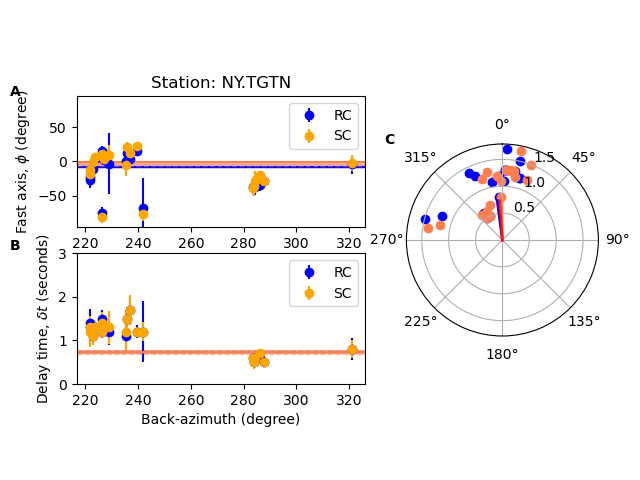
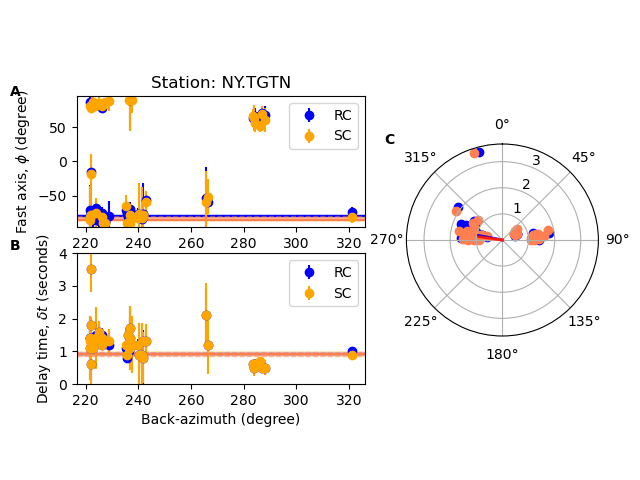
updated tutorials docs for split_average

diff --git a/docs/tutorials.rst b/docs/tutorials.rst
@@ -340,7 +340,7 @@ by typing in a terminal:
 
 .. code-block::
 
-    $ split_average --show-fig -V TGTN.pkl
+    $ split_average --show-fig -V --auto TGTN.pkl
     
     ###############################################################
     #            _ _ _                                            #
@@ -362,35 +362,26 @@ by typing in a terminal:
         Fairs:  True
         Poors:  False
     ---------------------------
-      Processing 141 Events...
-          20160413_135517 Good Non-Null -> Retained
+      Processing 136 Events...
+          20160302_124948 Poor Null -> Skipped
+          20160401_192455 Good Non-Null -> Retained
+          20160403_082352 Poor Non-Null -> Skipped
+          20160406_065848 Poor Null -> Skipped
+          20160407_033253 Good Non-Null -> Retained
+          20160413_135517 Fair Non-Null -> Retained
+          20160414_215027 Poor Null -> Skipped
+          20160428_193324 Poor Non-Null -> Skipped
           20160527_040843 Good Non-Null -> Retained
-          20160607_191515 Fair Non-Null -> Retained
-          20160619_094723 Fair Non-Null -> Retained
-          20160713_121112 Fair Non-Null -> Retained
-          20160924_212841 Good Non-Null -> Retained
-          20170819_020052 Good Non-Null -> Retained
-          20170926_042000 Good Non-Null -> Retained
-          20180728_170723 Good Non-Null -> Retained
-          20180819_042858 Good Non-Null -> Retained
-          20180906_154914 Fair Non-Null -> Retained
-          20180910_041902 Fair Non-Null -> Retained
-          20180910_193137 Good Non-Null -> Retained
-          20180916_211148 Good Non-Null -> Retained
-          20181016_002812 Fair Non-Null -> Retained
-          20190531_101232 Poor Non-Null -> Skipped
-          20190616_051716 Good Non-Null -> Retained
-          20190707_150840 Good Non-Null -> Retained
-          20190731_150233 Good Non-Null -> Retained
-          20190929_020251 Fair Non-Null -> Retained
-          20191031_011119 Good Non-Null -> Retained
-          20200318_031345 Fair Non-Null -> Retained
-
-    *** Station Average from 21 measurements ***
+          ...
+          
+    *** Station Average from 41 measurements ***
        Loc: -128.2727, 61.5267
-       PHI:  -4.111 d +- 2.891
-       DT:    0.729 s +- 0.052
+       PHI: -81.802 d +- 3.080
+       DT:    0.921 s +- 0.071
        Saved to: PLOTS/NY.TGTN_RC-SC_Nons_G-F_results.dat
+
+    *** Catalogue of events and results ***
+       Saved to: PLOTS/NY.TGTN_RC-SC_Nons_G-F_events.dat
 
 .. figure:: ../splitpy/examples/figures/Figure_3.png
    :align: center
